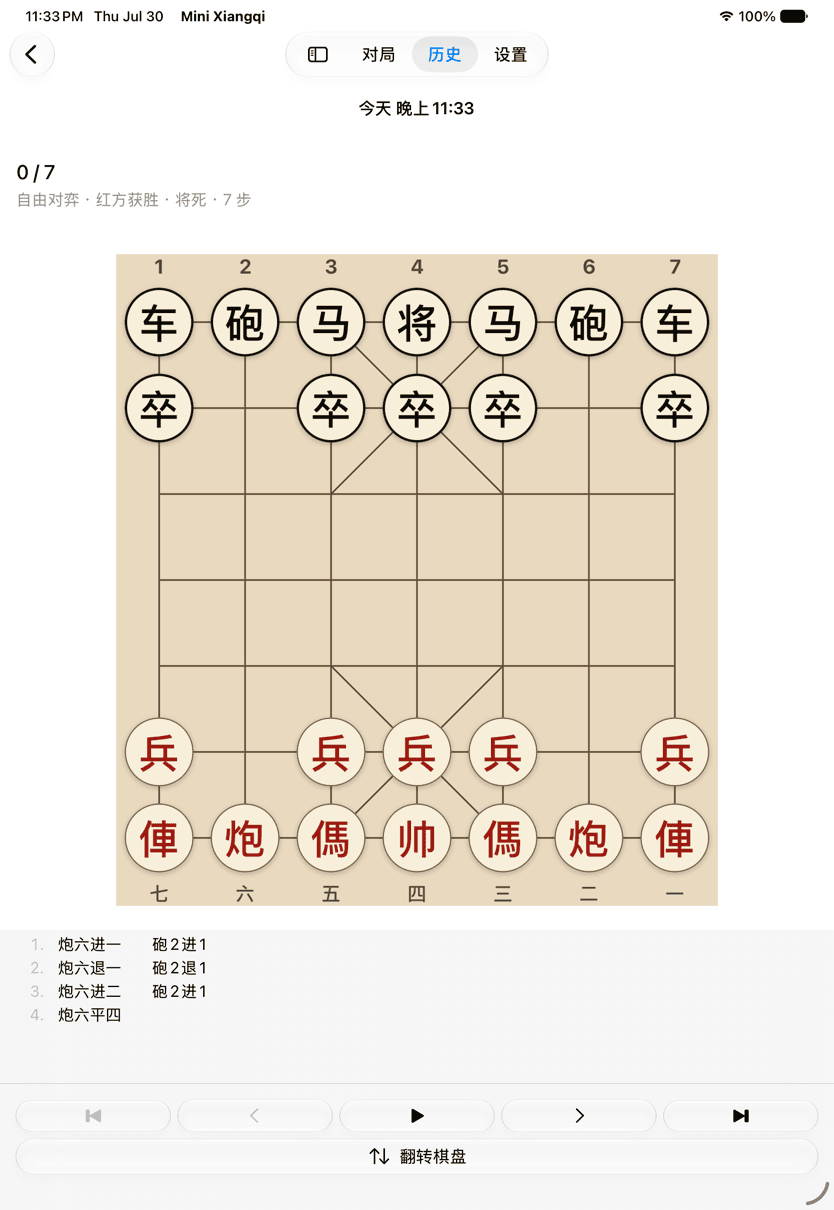
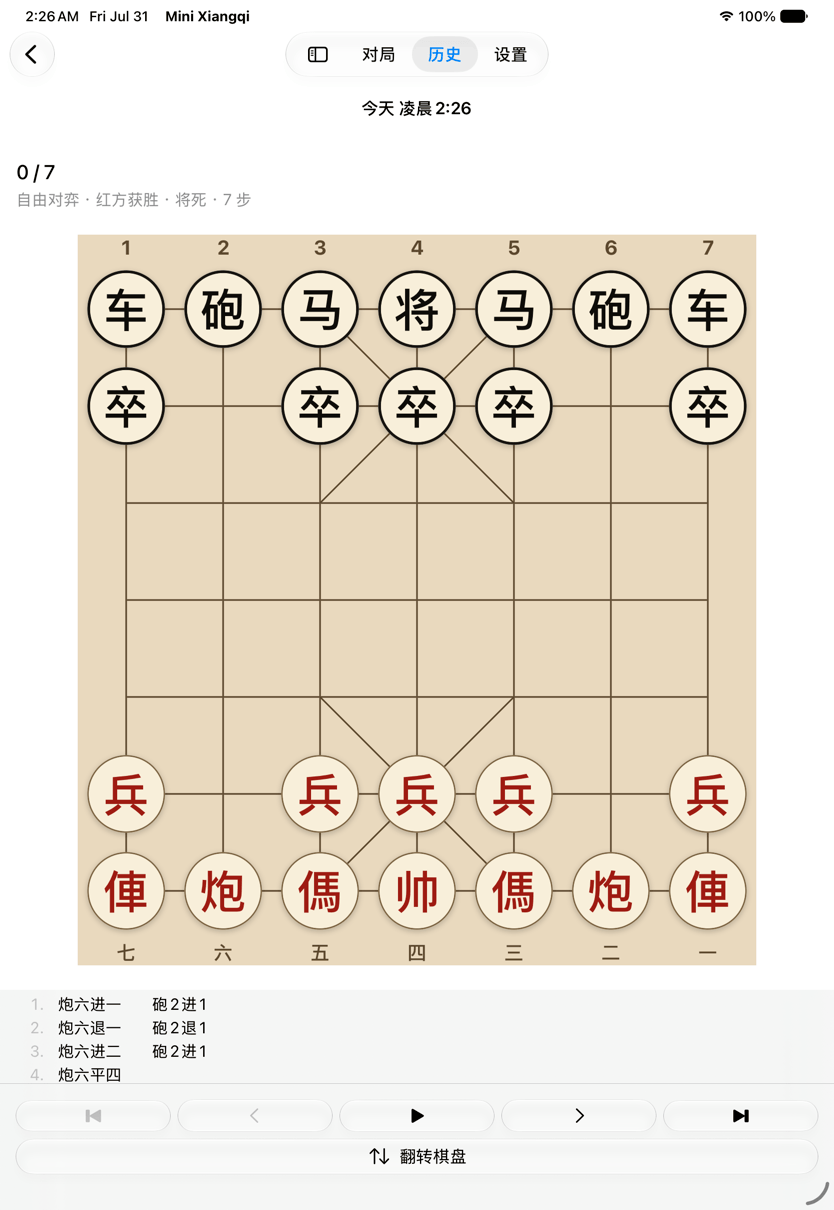
Buy the board back: share the room the header's move frees
The owner reviewed the first round's pictures and chose (2026-07-31): the
result line stays above the board, but the space that move frees is shared,
leaning to the board, instead of all going to the move list.

Moving the header out of the panel does not make the page shorter, so what the
list gains beneath the board the board pays for above it, point for point.
Two numbers give it back:

- `ReplayScreen.panelHeight` 260 -> 200. Beneath the board the panel asks for
  less than it does beside it, where nothing competes with it. On a phone the
  old ask was refused anyway — the grant is whatever is left once a floor-sized
  board is reserved — so asking for more than the phone had simply pinned the
  board on its floor.
- The header claims no air below itself in the stacked shape. It carried 20
  points there on top of the board's own 24-point allowance, which is a second
  gap drawn over the first, and beneath the board every point of it is a point
  of board. Beside the board a divider follows instead, and there the 20 stays,
  so the side-by-side shape is untouched.

Rendered, on the same seeded seven-ply game: a 402-point iPhone goes 44 -> 46
(47 before the branch), an iPad in portrait 86 -> 97 (98 before), and the move
list keeps its fourth row read whole on both — which before the branch was
three rows and a two-point sliver. The macOS side-by-side window is unchanged,
verified by re-rendering it and measuring the panel against the committed
[…]

diff --git a/apple/MiniXiangqi/History/ReplayScreen.swift b/apple/MiniXiangqi/History/ReplayScreen.swift
@@ -21,6 +21,10 @@
 // its own status and what the contract's stacked arrangement describes. The
 // owner asked for exactly that from the iPhone (2026-07-30): the result line
 // goes to the top of the page and the room it leaves goes to the move list.
+//
+// **The room it leaves is shared, and the share leans to the board**, which is
+// the owner's second look at the same screen (2026-07-31): the first round gave
+// the whole of it to the list and the board paid three points of pitch for it.
 
 import SwiftUI
 
@@ -37,7 +41,7 @@ struct ReplayScreen: View {
     /// constant here, and the board is sized around what it really is. It
     /// starts at the height the default text size comes to, so the first frame
     /// is already the right size, and nothing it measures depends on the board.
-    @State private var headerHeight: CGFloat = 66
+    @State private var headerHeight: CGFloat = 69
 
     @Environment(\.scenePhase) private var scenePhase
     @Environment(\.accessibilityReduceMotion) private var reduceMotion
@@ -119,9 +123,13 @@ struct ReplayScreen: View {
     /// what is true of the game above the board, the board, the controls below
     /// it — which is what the contract's stacked arrangement describes. The
     /// header used to be the first section *inside* the panel; moving it above
-    /// the board is the owner's own iPhone feedback (2026-07-30), and what the
-    /// panel does with the room is nothing: it keeps asking for the same 260
-    /// points, so the whole of the header's former slot goes to the move list.
+    /// the board is the owner's own iPhone feedback (2026-07-30), and the room
+    /// that move frees is **shared, leaning to the board** — the owner's second
+    /// look at the same screen (2026-07-31), after a first round that gave the
+    /// whole of it to the list and charged the board three points of pitch for
+    /// it. Two things pay the board back: the panel asks for less beneath the
+    /// board than it does beside it, and the header claims no air below itself
+    /// here, because the board's own allowance is already that air.
     ///
     /// Replay is the exception to the on-demand move list: its accepted
     /// behaviour needs the list to indicate the shown move and to let one be
@@ -145,7 +153,7 @@ struct ReplayScreen: View {
         let chrome = BoardLayout.stackedChrome(in: size,
                                                asking: headerHeight + panelHeight)
         return VStack(spacing: 0) {
-            headerBlock(replay)
+            headerBlock(replay, airBelow: 0)
                 .onGeometryChange(for: CGFloat.self, of: \.size.height) { headerHeight = $0 }
 
             board(replay, BoardLayout.stackedGeometry(in: size, chrome: chrome))
@@ -156,11 +164,21 @@ struct ReplayScreen: View {
     }
 
     /// What the panel beneath the board asks for: the list and the transport,
-    /// in the height the transport needs plus room for six or seven rows of the
-    /// game. It is the same number it asked for when the header was in it —
-    /// which is the point, and the owner's: the header left and the list got
-    /// its slot.
-    private var panelHeight: CGFloat { 260 }
+    /// in the height the transport needs plus room for four rows of the game.
+    ///
+    /// **This is the one number the owner's buy-back decision moves**
+    /// (2026-07-31), and it is settled against rendered screens rather than
+    /// reasoned about here. The panel used to ask beneath the board for exactly
+    /// what it asks beside it, and on a phone that ask is refused anyway — the
+    /// grant below is the whole of what is left once a floor-sized board is
+    /// reserved, so asking for more than the phone has just pins the board on
+    /// its floor. Asking for less is what hands the board its pitch back, and
+    /// every point of it costs the list a point of the same height, so the
+    /// number is exactly where the two stop: **200** is the largest ask that
+    /// leaves a 402-point iPhone a 46-point pitch, and the smallest that still
+    /// draws the seven-ply game's fourth row whole beneath it. Beside the
+    /// board there is no such contest and the panel is the width it always was.
+    private var panelHeight: CGFloat { 200 }
 
     private func board(_ replay: Replay, _ geometry: BoardGeometry) -> some View {
         BoardView(geometry: geometry,
@@ -188,7 +206,7 @@ struct ReplayScreen: View {
     private func panel(_ replay: Replay, showsHeader: Bool, edge: Edge.Set) -> some View {
         VStack(alignment: .leading, spacing: 0) {
             if showsHeader {
-                headerBlock(replay)
+                headerBlock(replay, airBelow: 20)
 
                 Divider()
             }
@@ -226,8 +244,8 @@ struct ReplayScreen: View {
         }
     }
 
-    /// The header with the air around it, in the one set of insets both shapes
-    /// use.
+    /// The header with the air around it: the one leading edge both shapes use,
+    /// and the air above it that both shapes use too.
     ///
     /// They are the play screen's turn-status insets, arrived at from the other
     /// side: that element carries 12 points of its own padding — it has a
@@ -239,10 +257,22 @@ struct ReplayScreen: View {
     /// between the two screens sees; what follows differs because a status line
     /// and a record's metadata are different sentences, not because the air
     /// around them was chosen twice.
-    private func headerBlock(_ replay: Replay) -> some View {
+    ///
+    /// `airBelow` is the one inset the two shapes disagree about, because what
+    /// follows the header differs: beside the board a `Divider` follows and the
+    /// header states its own 20-point gap to it, as it states the gap above.
+    /// Beneath the board the **board's own allowance** follows —
+    /// `BoardLayout.boardPadding`, 24 points of air already reserved above the
+    /// block — and a gap stated here as well would be a second one drawn on top
+    /// of the first. It would also be a gap the board paid for: beneath the
+    /// board the header sits inside the chrome the board is sized around, so
+    /// every point of air here is a point of board. That is the half of the
+    /// owner's buy-back (2026-07-31) that the panel's own ask does not reach.
+    private func headerBlock(_ replay: Replay, airBelow: CGFloat) -> some View {
         header(replay)
             .padding(.horizontal, BoardLayout.panelInset)
-            .padding(.vertical, 20)
+            .padding(.top, 20)
+            .padding(.bottom, airBelow)
     }
 
     /// What the game was, and where in it the board is.

diff --git a/apple/MiniXiangqiTests/BoardLayoutTests.swift b/apple/MiniXiangqiTests/BoardLayoutTests.swift
@@ -38,14 +38,20 @@ struct BoardLayoutTests {
     /// The narrower phone the device policy actually names, and the one every
     /// screenshot in this campaign is taken on.
     ///
-    /// 402 by 672 is what an iPhone 17 hands a screen's own GeometryReader:
-    /// 402 points of screen width, and what is left of 874 once the status bar,
-    /// the navigation bar and the tab bar are off. It was read off the running
-    /// app — the #86 round learned it after that round's suite had gone green,
-    /// which is why it arrives here rather than there — and it is the tighter of
-    /// the two phones in both directions, so it is where the stacked shape's
-    /// floors are reached first.
-    @Test("The 402-point iPhone stacks, and the shape's floors are reached there first")
+    /// 402 by 672 is roughly what an iPhone 17 hands a screen's own
+    /// GeometryReader: 402 points of screen width, and what is left of 874 once
+    /// the status bar, the navigation bar and the tab bar are off. It is a
+    /// rounded stand-in rather than the device's exact figure — measuring the
+    /// running app against the rendered board puts the height a couple of points
+    /// higher — and rounded deliberately, for the reason at the top of this
+    /// file: a rule that only held at one exact pixel count would not be a rule.
+    /// What is asserted below therefore holds either side of that couple of
+    /// points; the pitch each shape actually draws is a rendered number and
+    /// lives with the pictures, not here.
+    ///
+    /// It is the tighter of the two phones in both directions, so it is where
+    /// the stacked shape's floors are reached first.
+    @Test("The 402-point iPhone stacks, and replay's chrome now fits inside it")
     func phone402PortraitStacks() {
         let phone = CGSize(width: 402, height: 672)
         #expect(BoardLayout.shape(in: phone) == .stacked)
@@ -57,22 +63,35 @@ struct BoardLayoutTests {
                                             chrome: BoardLayout.stackedChromeHeight).pitch
                 > BoardGeometry.minimumPitch)
 
-        // Replay's is the one that reaches the floor, and this is where the
-        // grant does its work. Its chrome is the header above the board plus
-        // the panel beneath it — more than this phone has once a floor-sized
-        // board is reserved — so the chrome is what tightens, the board stands
-        // exactly on its floor, and the block still fits the slot it is left.
+        // Replay's chrome is the header above the board plus the panel beneath
+        // it. Asking for the whole of the panel's side-by-side height put that
+        // sum past what this phone has once a floor-sized board is reserved, and
+        // pinned the board on its floor; the owner's buy-back (2026-07-31)
+        // brought the ask under that line, so the phone now grants it whole and
+        // the board it leaves stands clear of the floor rather than on it.
         //
         // The header's measured height is written into the sum for honesty
-        // rather than for arithmetic: every ask above 284 gets the same answer
-        // here, which is the point of the grant.
-        let asked: CGFloat = 82 + 260
+        // rather than for arithmetic: what is asserted is the relation between
+        // the ask, the grant and the floor, not either number.
+        let asked: CGFloat = 69 + 200
         let chrome = BoardLayout.stackedChrome(in: phone, asking: asked)
-        #expect(chrome < asked, "the chrome is what tightens, not the board")
-        #expect(chrome == phone.height - BoardLayout.minimumBoardHeight)
+        #expect(chrome == asked, "the ask fits, so it is granted whole")
+        #expect(chrome < phone.height - BoardLayout.minimumBoardHeight)
         let board = BoardLayout.stackedGeometry(in: phone, chrome: chrome)
-        #expect(board.pitch == BoardGeometry.minimumPitch)
+        #expect(board.pitch > BoardGeometry.minimumPitch, "the board is off its floor")
         #expect(board.blockSize.height <= phone.height - chrome)
+
+        // The grant still tightens where the space really is short — a header
+        // grown by an accessibility text size is the case it exists for. There
+        // the chrome yields, the board stands exactly on its floor, and the
+        // block still fits the slot it is left.
+        let outsized: CGFloat = 200 + 200
+        let tightened = BoardLayout.stackedChrome(in: phone, asking: outsized)
+        #expect(tightened < outsized, "the chrome is what tightens, not the board")
+        #expect(tightened == phone.height - BoardLayout.minimumBoardHeight)
+        let floored = BoardLayout.stackedGeometry(in: phone, chrome: tightened)
+        #expect(floored.pitch == BoardGeometry.minimumPitch)
+        #expect(floored.blockSize.height <= phone.height - tightened)
     }
 
     @Test("An iPad in portrait stacks: the panel would cost the board more than it returns")

diff --git a/docs/interaction-design.md b/docs/interaction-design.md
@@ -438,7 +438,8 @@ The requested destination remains temporary only while this confirmation or retr
 - Controls provide jump to beginning, one move back, play or pause, one move forward, and jump to end. They are icon-only and carry their words as accessibility labels: five labelled buttons do not fit beside a board, and a transport is the one place a glyph is the familiar form. The end controls take the media transport's own symbols and the single steps take chevrons, because a step is not a scan.
 - The move list highlights the currently displayed move and allows the user to jump to a selected move. The highlight is a filled shape and a heavier weight, never colour alone.
 - Replay shows the record's own metadata — the same line the History row carries — and its progress through the game as *shown ply / recorded plies*. That pair is the accepted separate move-progress and playback state; there is no side-to-move line, because a finished game is not anybody's turn.
-- **That pair is the top of the page in both layout shapes.** Beside the board it is the panel's first section, which is already the top. Beneath the board it is **above** the board rather than under it — where the stacked arrangement puts what is true of the game, and where the play screen puts its own turn status — and the panel beneath the board keeps the height it already asked for, so the whole of the pair's former slot inside it goes to the move list. The screen is therefore one design in both shapes: what the game was, then the board, then the record and the transport. **The board pays for the move wherever the shape is bound by its height**, and that cost is accepted rather than hidden: on a 402-point iPhone the board comes to rest exactly on the 44-point floor, which replay can afford because its board is a read-only document with no touch target on it, and on an iPad in portrait the pitch goes from 98 to 85. Where the space is shorter still it is the panel that yields, not the board — the grant under [Layout shapes](#layout-shapes) reserves the board's floor first. *(Owner feedback from the iPhone, 2026-07-30: the result line moves to the top of the page and the freed bottom space goes to the move list.)*
+- **That pair is the top of the page in both layout shapes.** Beside the board it is the panel's first section, which is already the top. Beneath the board it is **above** the board rather than under it — where the stacked arrangement puts what is true of the game, and where the play screen puts its own turn status. The screen is therefore one design in both shapes: what the game was, then the board, then the record and the transport.
+- **The room that move frees is shared, and the share leans to the board.** Moving the pair out of the panel does not make the page any shorter, so what the move list gains beneath the board the board pays for above it, point for point. Two things keep that price small: beneath the board the panel asks for **less** than it does beside the board, where nothing is competing with it; and the pair claims **no air below itself** there, because the board's own allowance is already that air. What is left is a cost rather than a bargain, and it is stated rather than hidden: on a 402-point iPhone the pitch goes from 47 to 46 and on an iPad in portrait from 98 to 97, while the move list goes from three rows and a sliver of a fourth to four rows read whole on both. The side-by-side shape pays nothing, because there the pair was always the top of the panel. Where the space is shorter still it is the panel that yields, not the board — the grant under [Layout shapes](#layout-shapes) reserves the board's floor first, and replay could stand on that floor if it had to, its board being a read-only document with no touch target on it. *(Owner feedback from the iPhone, 2026-07-30: the result line moves to the top of the page and the freed bottom space goes to the move list. Owner decision on the pictures, 2026-07-31: share that space, leaning to the board, rather than giving all of it to the list.)*
 - The accepted history orientation and visible Flip Board control remain available.
 - Pin, Share, and Delete are managed from the History list rather than from replay.
 - **A step travels; a jump cuts.** *(Owner decision, 2026-07-29.)* One ply forward or back is shown with the same distance-scaled travel a played move uses — a step back reverses it exactly as an Undo does, restoring what the move took — and its landing performs the same meaning-chosen sound a played landing performs, under the same single sound setting: a replayed landing is a landing, and gets no rule of its own. A jump of more than one ply, and a step asked for while one is still travelling, are presentational cuts instead — nobody asking for the twentieth position wants to watch nineteen moves go past — and a cut has no landing, so it is silent.
